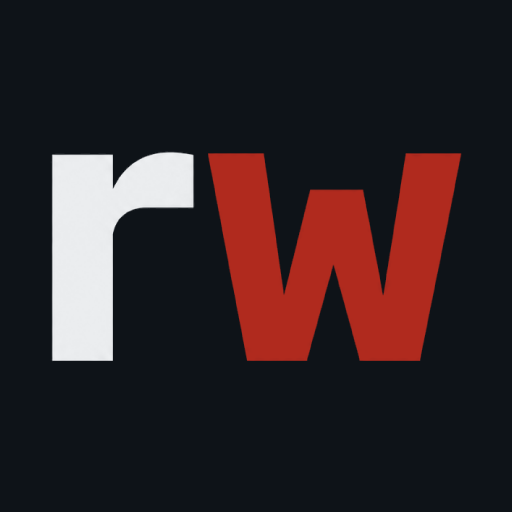
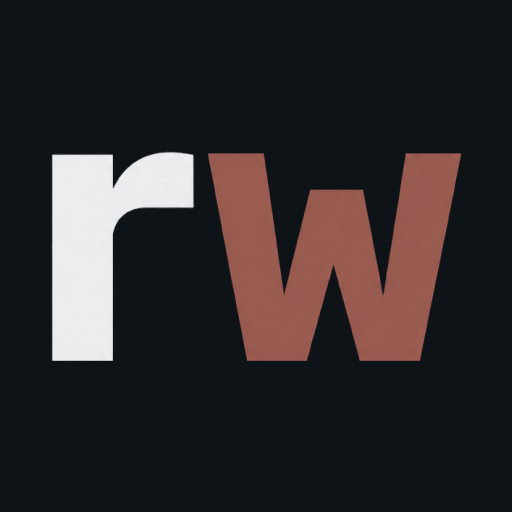
Salmon accent in both themes
Dark keeps #ea8471. Light uses #b8482d, which is the same hue darkened until
it reads: #ea8471 measures 2.27:1 on the paper ground and fails badly, while
#b8482d clears AA for body text at 4.55:1.

The icon follows, so the mark matches the accent instead of sitting a
generation behind it.

Also removes a duplicated --brand declaration and a lost indent in the
dark-mode media block, both from an earlier patch applying twice.

Changed region(s): [[0.4062, 0.2812, 0.9062, 0.7188]]

diff --git a/site/styles.css b/site/styles.css
@@ -1,12 +1,11 @@
 :root{
-  /* Light: cool paper. There is no brand accent -- the only colour on the
-     page is semantic severity, which is the same restraint the tool applies
-     to its own reports. --brand exists so the wordmark and links have one
-     token to follow, and it points at the same red. */
+  /* Light: cool paper. The accent is salmon, matching dark mode -- darkened
+     to #b8482d because #ea8471 measures 2.27:1 on this ground and is
+     unreadable. Severity stays separate and semantic. */
   --ground:#edeff1; --surface:#ffffff; --raise:#f7f8f9;
   --ink:#12171c; --ink-2:#39434e; --muted:#5a6672; --faint:#8b95a1;
   --rule:#d5dae0; --rule-2:#e4e8ec;
-  --brand:#b02a1e; --brand-bg:#f7e9e7;
+  --brand:#b8482d; --brand-bg:#fbeeea;
   --crit:#b02a1e; --crit-bg:#f7e9e7;
   --warn:#8a5a00; --warn-bg:#f8f0df;
   --ok:#1b6b4a;   --ok-bg:#e6f0eb;
@@ -19,8 +18,7 @@
     --ink:#e9edf0; --ink-2:#c2cad2; --muted:#8e99a4; --faint:#6a747e;
     --rule:#242C34; --rule-2:#1A2127;
     --brand:#ea8471; --brand-bg:#2a1714;
-    --brand:#ea8471; --brand-bg:#2a1714;
-  --crit:#ea8471; --crit-bg:#2a1714;
+    --crit:#ea8471; --crit-bg:#2a1714;
     --warn:#d7a44f; --warn-bg:#271e10;
     --ok:#72c69d;   --ok-bg:#12241c;
     --info:#8db4dd;  --info-bg:#141e29;
